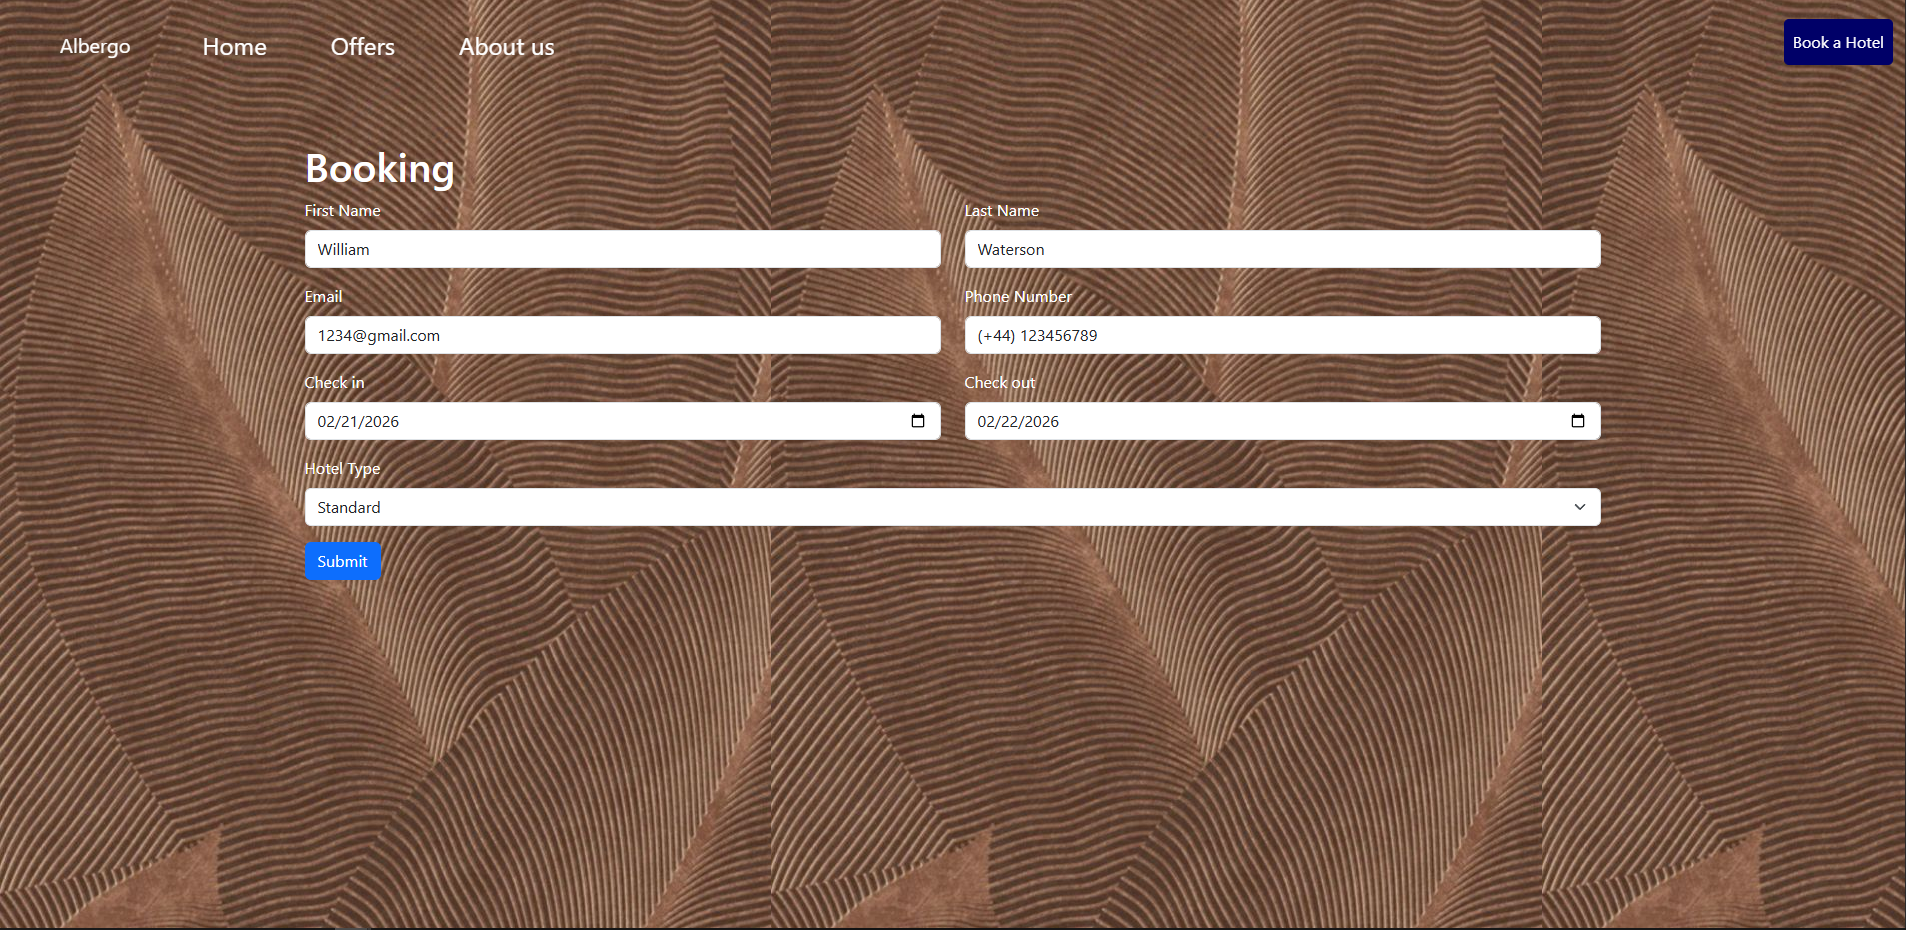
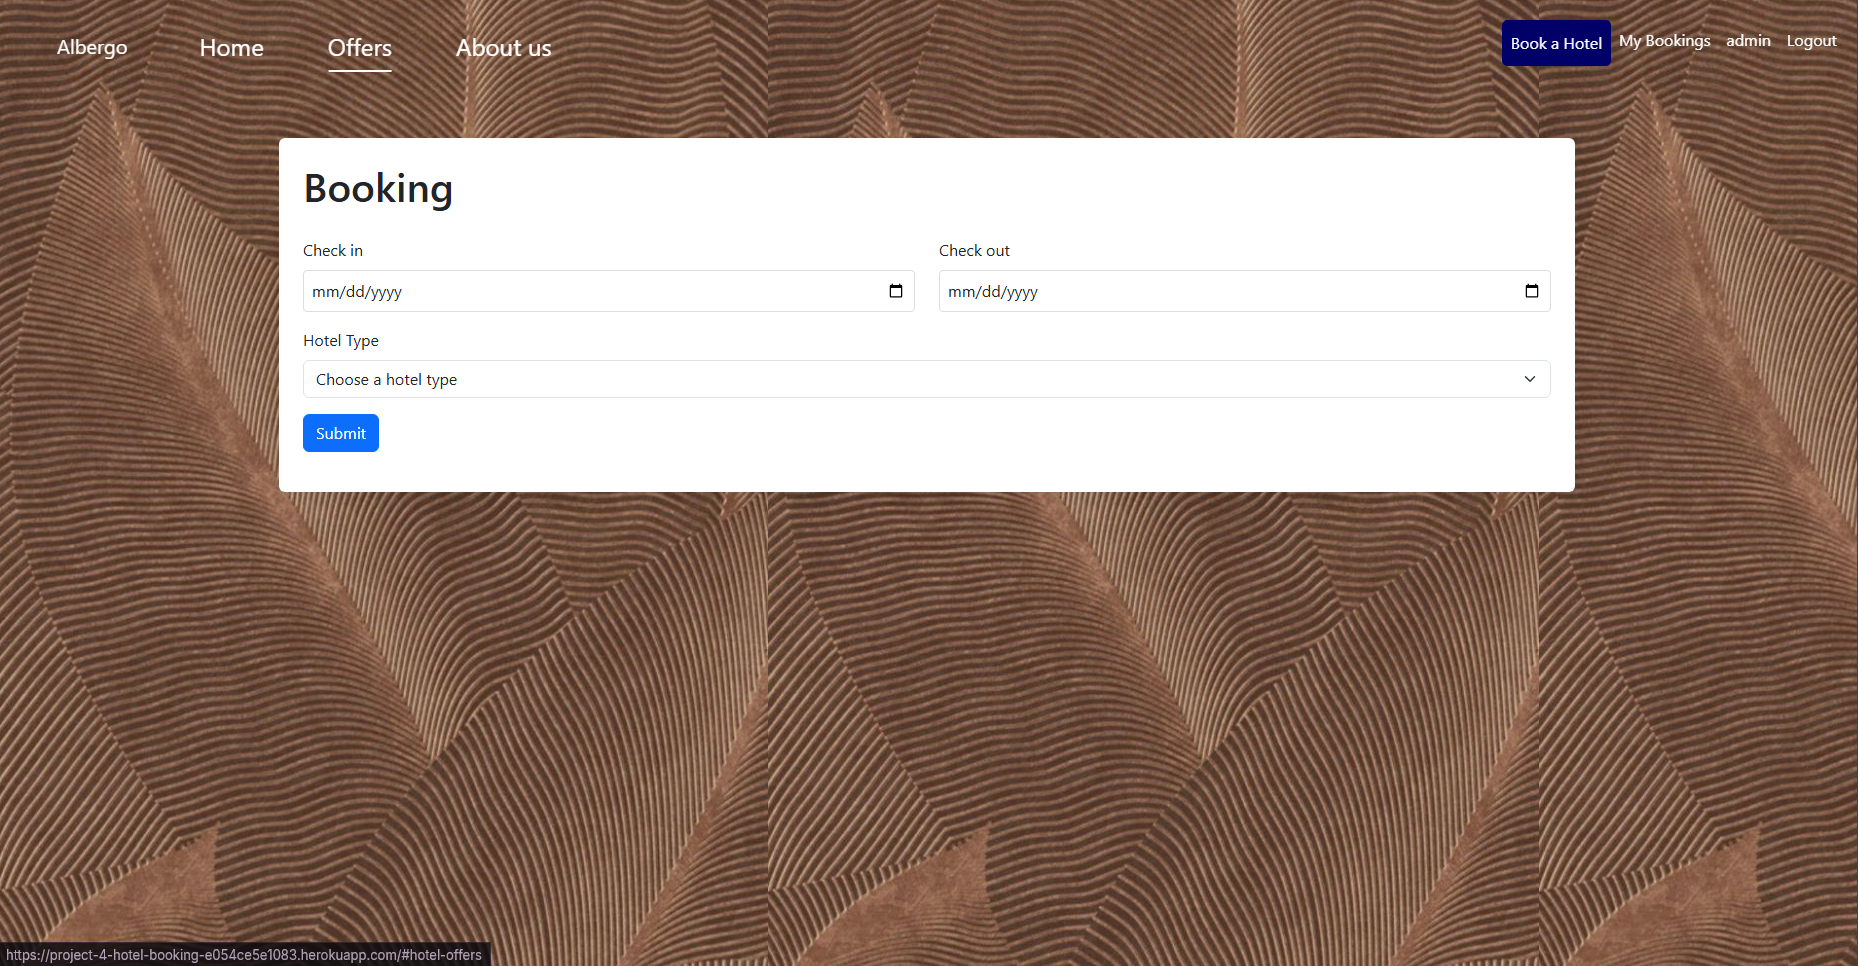
Added images for README.md

diff --git a/booking/hBooking/hotelBooking/tests.py b/booking/hBooking/hotelBooking/tests.py
@@ -275,7 +275,6 @@ class UpdateBookingViewTest(TestCase):
             hotel_type=self.hotel
         )
 
-    print()
 
     def test_update_booking_valid(self):
         self.client.login(username='test', password='12345')
